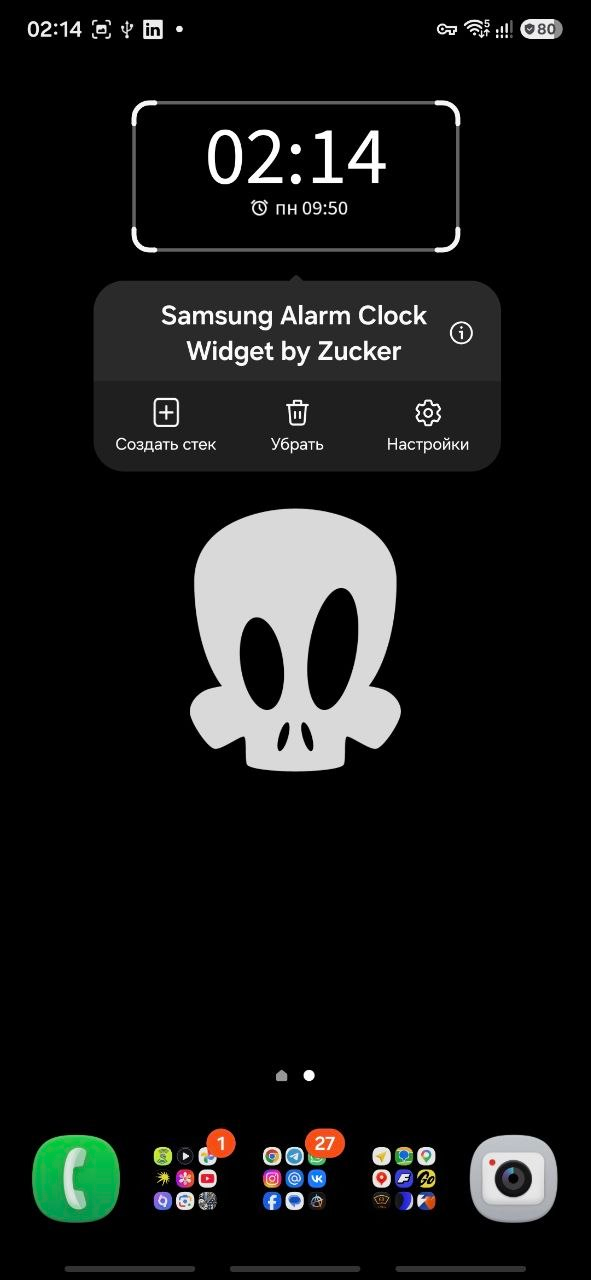
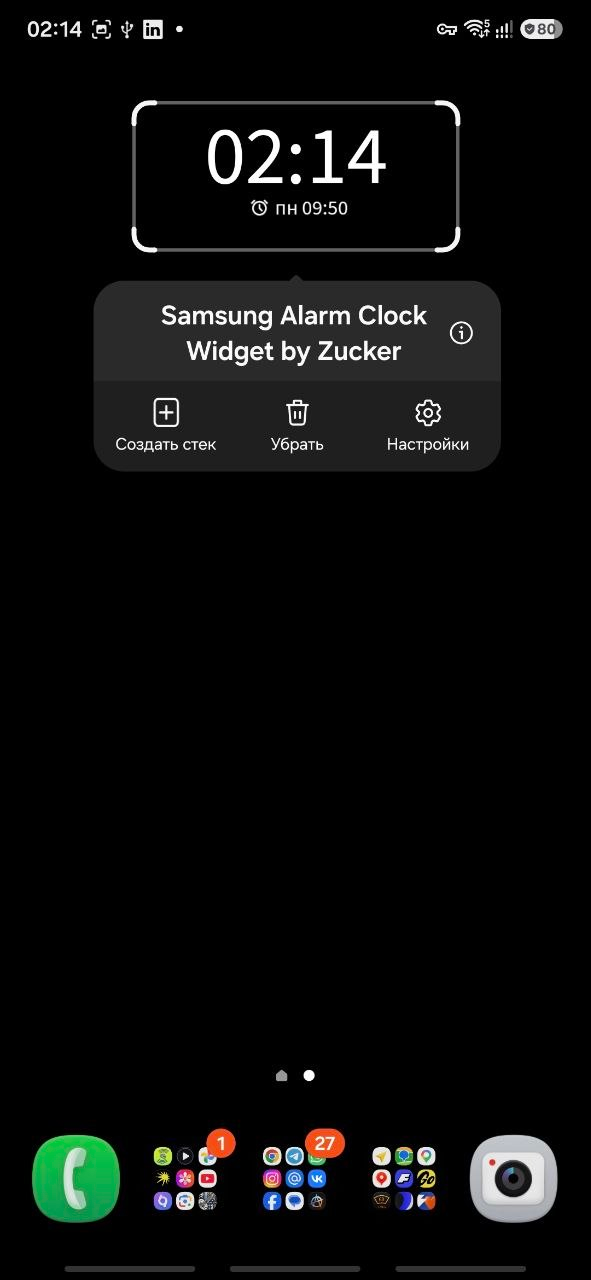
Remove wallpaper artwork from all screenshots

Changed region(s): [[0.3046, 0.375, 0.7005, 0.625]]

diff --git a/README.md b/README.md
@@ -18,9 +18,9 @@ Unlike widgets that rely only on Android's standard `getNextAlarmClock()` result
 ## Screenshots
 
 <p align="center">
-  <img src="docs/screenshots/widget-home-screen.png" width="220" alt="Widget displaying the current time and next Samsung Clock alarm on the One UI home screen">
+  <img src="docs/screenshots/widget-home-screen.png?v=2" width="220" alt="Widget displaying the current time and next Samsung Clock alarm on the One UI home screen">
   &nbsp;
-  <img src="docs/screenshots/widget-reconfigure-menu.png" width="220" alt="One UI widget menu with the option to reopen the widget settings">
+  <img src="docs/screenshots/widget-reconfigure-menu.png?v=2" width="220" alt="One UI widget menu with the option to reopen the widget settings">
   &nbsp;
   <img src="docs/screenshots/settings-overview.png" width="220" alt="Main widget appearance and behavior settings">
 </p>
